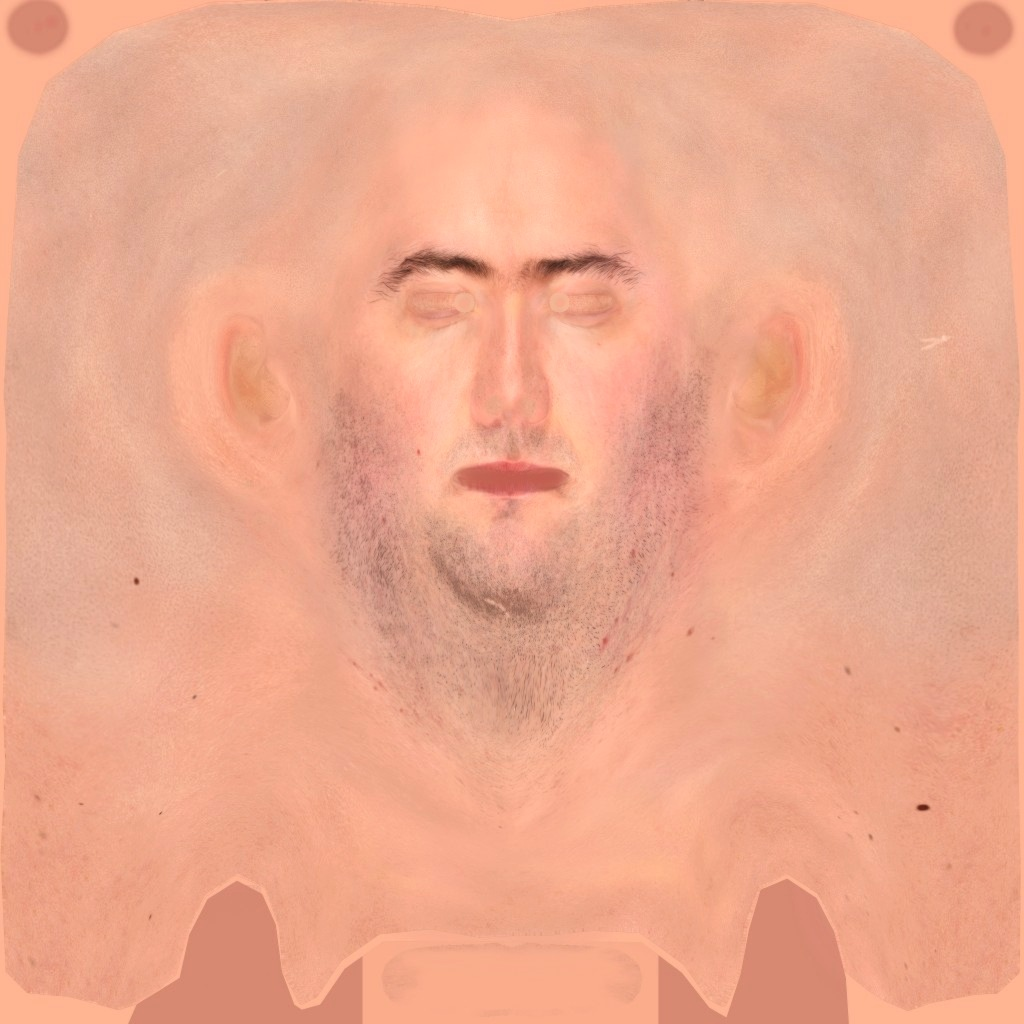
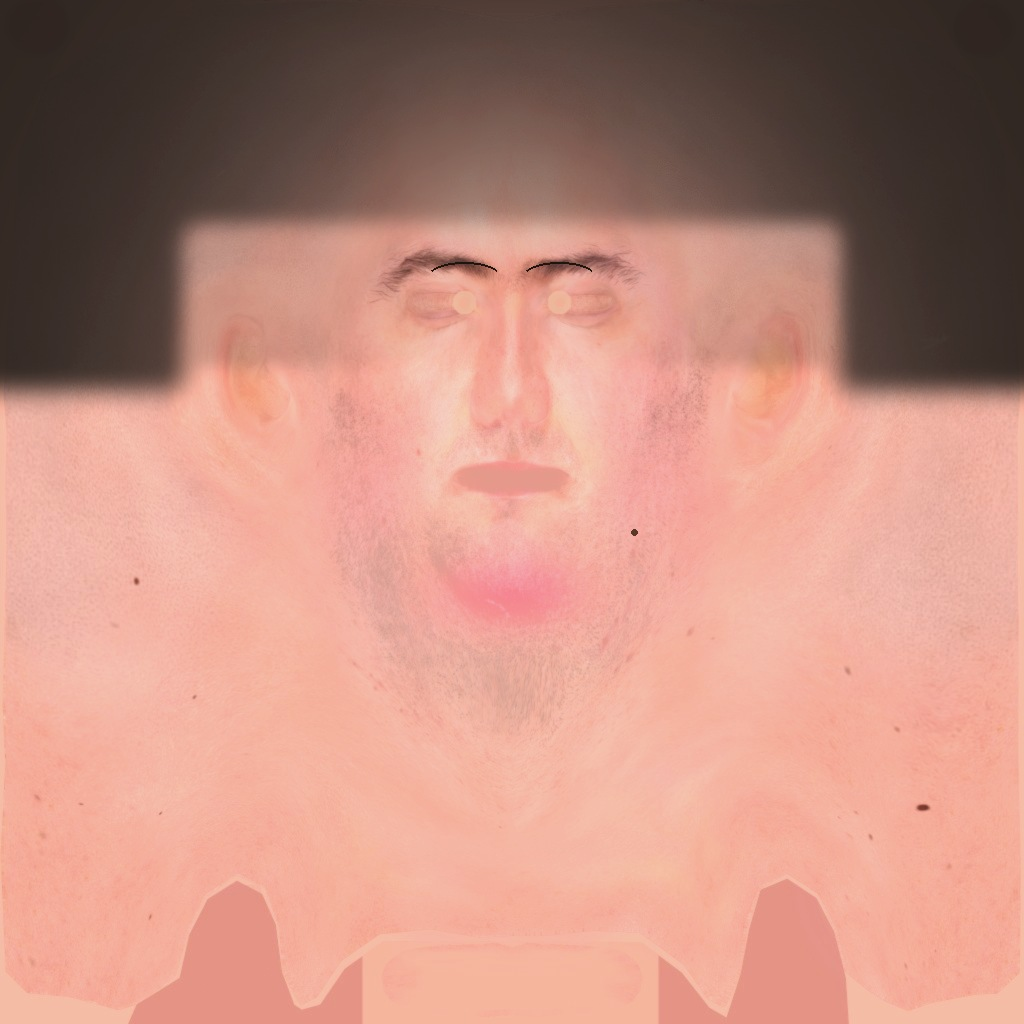
Differentiate 老王, 大妈, and kid faces beyond shared scan topology. (#4)
Morph each Lee Perry Smith head per role, bake distinct scalp/skin maps
(towel, black hair, yellow hat), and add silhouette props so the cast
no longer reads as three identical bald clones.

diff --git a/3d_three_js_3d.html b/3d_three_js_3d.html
@@ -2061,6 +2061,66 @@
       return pack;
     }
 
+    function morphScanHeadGeometry(geometry, morph) {
+      // 同一扫描头按角色捏形，避免三人同脸
+      if (!geometry || !morph) return;
+      const pos = geometry.attributes.position;
+      if (!pos) return;
+      const box = new THREE.Box3().setFromBufferAttribute(pos);
+      const center = box.getCenter(new THREE.Vector3());
+      const size = box.getSize(new THREE.Vector3());
+      const invY = 1 / Math.max(size.y, 0.001);
+      const invX = 1 / Math.max(size.x, 0.001);
+      const invZ = 1 / Math.max(size.z, 0.001);
+      for (let i = 0; i < pos.count; i++) {
+        let x = pos.getX(i) - center.x;
+        let y = pos.getY(i) - center.y;
+        let z = pos.getZ(i) - center.z;
+        const ny = y * invY;
+        const nx = x * invX;
+        const nz = z * invZ;
+        if (morph === 'farmer') {
+          // 方脸、下颌沉、眉弓鼓
+          if (ny < -0.05) {
+            x *= 1.06;
+            y -= size.y * 0.04 * (-ny);
+          }
+          if (ny > 0.15 && nz > 0.05) z += size.z * 0.04;
+          if (Math.abs(nx) > 0.35 && ny < 0.2) x *= 1.08;
+        } else if (morph === 'auntie') {
+          // 圆脸短下巴、颊鼓、颧收一点
+          x *= 1.12;
+          y *= 0.86;
+          if (ny < -0.1) {
+            y += size.y * 0.08 * (-ny);
+            z *= 0.92;
+          }
+          if (ny > -0.05 && ny < 0.35 && Math.abs(nx) > 0.15) {
+            x *= 1.1;
+            z += size.z * 0.05 * (1 - Math.abs(nx));
+          }
+          if (nz > 0.35 && Math.abs(nx) < 0.2 && ny > -0.05 && ny < 0.25) {
+            z *= 0.9; // 鼻梁略收
+          }
+        } else if (morph === 'kid') {
+          // 大圆头、短脸、鼓颊、小下巴
+          x *= 1.18;
+          y *= 0.9;
+          z *= 1.12;
+          if (ny < 0.15) {
+            const puff = 1 - Math.min(1, Math.hypot(nx, nz));
+            x *= 1 + 0.12 * puff;
+            z += size.z * 0.07 * puff;
+          }
+          if (ny < -0.15) y += size.y * 0.1 * (-ny);
+          if (nz > 0.3 && Math.abs(nx) < 0.25) z *= 0.88;
+        }
+        pos.setXYZ(i, x + center.x, y + center.y, z + center.z);
+      }
+      pos.needsUpdate = true;
+      geometry.computeVertexNormals();
+    }
+
     function attachPhotorealScanHead(model, opts) {
       // Lee Perry Smith 扫描头：近景写实脸（仅取网格，丢掉场景里的 Camera/Lamp）
       const options = opts || {};
@@ -2069,25 +2129,34 @@
       const localPos = options.position || { x: 0, y: 0.22, z: 0.06 };
       const yaw = options.yaw != null ? options.yaw : 0;
       const skinTint = options.tint != null ? options.tint : 0xffffff;
+      const morph = options.morph || null;
+      const scaleXYZ = options.scaleXYZ || { x: 1, y: 1, z: 1 };
+      const roughness = options.roughness != null ? options.roughness : 0.82;
+      const normalStrength = options.normalStrength != null ? options.normalStrength : 0.65;
       crushMakeHumanHeadGeometry(model);
       loadLpsGltf((gltf) => {
         const srcMesh = gltf.scene.getObjectByName('LeePerrySmith') || gltf.scene.children.find((c) => c.isMesh);
         let headMesh = null;
         if (srcMesh && srcMesh.isMesh) {
           headMesh = srcMesh.clone(true);
+          headMesh.geometry = srcMesh.geometry.clone();
         } else {
           gltf.scene.traverse((obj) => {
-            if (!headMesh && obj.isMesh) headMesh = obj.clone(true);
+            if (!headMesh && obj.isMesh) {
+              headMesh = obj.clone(true);
+              headMesh.geometry = obj.geometry.clone();
+            }
           });
         }
         if (!headMesh) return;
+        morphScanHeadGeometry(headMesh.geometry, morph);
         const tex = getLpsFaceTextures(faceUrl);
         // Map-SPEC 是高光图，不能直接当 roughnessMap（会油光），只用颜色+法线
         headMesh.material = new THREE.MeshStandardMaterial({
           map: tex.map,
           normalMap: tex.normal,
-          normalScale: new THREE.Vector2(0.65, 0.65),
-          roughness: 0.82,
+          normalScale: new THREE.Vector2(normalStrength, normalStrength),
+          roughness,
           metalness: 0.015,
           color: skinTint
         });
@@ -2103,9 +2172,10 @@
         // 几何中心归零；挂在 neck 上，抬到原头位置
         headMesh.position.set(-center.x, -center.y - size.y * 0.05, -center.z);
         wrap.add(headMesh);
-        wrap.scale.setScalar(s);
+        wrap.scale.set(s * scaleXYZ.x, s * scaleXYZ.y, s * scaleXYZ.z);
         wrap.position.set(localPos.x, localPos.y, localPos.z);
         wrap.rotation.y = yaw;
+        if (typeof options.onHead === 'function') options.onHead(wrap, headMesh, s);
         attachPropToNeck(model, wrap);
       });
     }
@@ -2136,24 +2206,27 @@
         });
       });
       attachPhotorealScanHead(model, {
-        faceUrl: 'assets/people/lps/farmer_face.jpg?v=8',
+        faceUrl: 'assets/people/lps/farmer_face.jpg?v=10',
         headHeight: 0.34,
         position: { x: 0, y: 0.175, z: 0.05 },
         yaw: 0,
-        tint: 0xffffff
+        tint: 0xf0c890,
+        morph: 'farmer',
+        scaleXYZ: { x: 1.06, y: 1.03, z: 1.05 },
+        roughness: 0.9,
+        normalStrength: 0.9,
+        onHead: (wrap, headMesh) => {
+          const towelMat = new THREE.MeshStandardMaterial({ color: 0xe8eef7, roughness: 0.9, side: THREE.DoubleSide });
+          const cap = new THREE.Mesh(new THREE.SphereGeometry(4.2, 18, 12, 0, Math.PI * 2, 0, Math.PI * 0.45), towelMat);
+          cap.position.set(0, 2.8, -1.6);
+          headMesh.add(cap);
+          const flap = new THREE.Mesh(new THREE.BoxGeometry(1.5, 3.4, 0.5), towelMat);
+          flap.position.set(3.2, 1.4, -1.8);
+          headMesh.add(flap);
+        }
       });
-      const towel = new THREE.Group();
-      towel.position.set(0, 0.33, -0.04);
-      const towelMat = new THREE.MeshStandardMaterial({ color: 0xdbeafe, roughness: 0.85 });
-      const band = new THREE.Mesh(new THREE.TorusGeometry(0.12, 0.035, 10, 22), towelMat);
-      band.rotation.x = Math.PI * 0.5;
-      towel.add(band);
-      const flap = new THREE.Mesh(new THREE.BoxGeometry(0.08, 0.22, 0.03), towelMat);
-      flap.position.set(0.12, -0.05, 0.02);
-      towel.add(flap);
-      attachPropToNeck(model, towel);
       const scarf = new THREE.Mesh(
-        new THREE.TorusGeometry(0.16, 0.04, 10, 20),
+        new THREE.TorusGeometry(0.18, 0.05, 10, 20),
         new THREE.MeshStandardMaterial({ color: 0xb45309, roughness: 0.8 })
       );
       scarf.position.set(0, 1.42, 0.02);
@@ -2183,23 +2256,31 @@
         });
       });
       attachPhotorealScanHead(model, {
-        faceUrl: 'assets/people/lps/auntie_face.jpg?v=8',
-        headHeight: 0.33,
-        position: { x: 0, y: 0.165, z: 0.05 },
+        faceUrl: 'assets/people/lps/auntie_face.jpg?v=10',
+        headHeight: 0.31,
+        position: { x: 0, y: 0.16, z: 0.05 },
         yaw: 0,
-        tint: 0xfff1e6
+        tint: 0xffe4d4,
+        morph: 'auntie',
+        scaleXYZ: { x: 1.16, y: 0.86, z: 1.1 },
+        roughness: 0.7,
+        normalStrength: 0.35,
+        onHead: (wrap, headMesh) => {
+          const hairMat = new THREE.MeshStandardMaterial({ color: 0x14100c, roughness: 0.72, side: THREE.DoubleSide });
+          const scalp = new THREE.Mesh(new THREE.SphereGeometry(4.6, 20, 14, 0, Math.PI * 2, 0, Math.PI * 0.5), hairMat);
+          scalp.position.set(0, 2.6, -1.8);
+          headMesh.add(scalp);
+          const bun = new THREE.Mesh(new THREE.SphereGeometry(2.1, 14, 12), hairMat);
+          bun.position.set(0, 2.0, -4.2);
+          headMesh.add(bun);
+          const sideL = new THREE.Mesh(new THREE.SphereGeometry(2.2, 12, 10), hairMat);
+          sideL.scale.set(0.7, 1.45, 1.0);
+          sideL.position.set(-3.6, 0.4, -1.4);
+          const sideR = sideL.clone();
+          sideR.position.x = 3.6;
+          headMesh.add(sideL, sideR);
+        }
       });
-      const hair = new THREE.Group();
-      hair.position.set(0, 0.31, -0.05);
-      const bunMat = new THREE.MeshStandardMaterial({ color: 0x1c1917, roughness: 0.75 });
-      const bun = new THREE.Mesh(new THREE.SphereGeometry(0.065, 14, 12), bunMat);
-      bun.position.set(0, 0.05, -0.08);
-      hair.add(bun);
-      const fringe = new THREE.Mesh(new THREE.SphereGeometry(0.09, 14, 10), bunMat);
-      fringe.scale.set(1.15, 0.3, 0.6);
-      fringe.position.set(0, 0.04, 0.03);
-      hair.add(fringe);
-      attachPropToNeck(model, hair);
     }
 
     function dressMarketKid(model) {
@@ -2223,25 +2304,33 @@
         });
       });
       attachPhotorealScanHead(model, {
-        faceUrl: 'assets/people/lps/kid_face.jpg?v=8',
-        headHeight: 0.46,
-        position: { x: 0, y: 0.155, z: 0.045 },
+        faceUrl: 'assets/people/lps/kid_face.jpg?v=10',
+        headHeight: 0.4,
+        position: { x: 0, y: 0.15, z: 0.045 },
         yaw: 0,
-        tint: 0xffe8d8
+        tint: 0xffd4b8,
+        morph: 'kid',
+        scaleXYZ: { x: 1.22, y: 1.1, z: 1.2 },
+        roughness: 0.68,
+        normalStrength: 0.22,
+        onHead: (wrap, headMesh) => {
+          const hatMat = new THREE.MeshStandardMaterial({ color: 0xf59e0b, roughness: 0.7, side: THREE.DoubleSide });
+          const crown = new THREE.Mesh(new THREE.SphereGeometry(4.8, 20, 14, 0, Math.PI * 2, 0, Math.PI * 0.48), hatMat);
+          crown.position.set(0, 2.9, -1.5);
+          headMesh.add(crown);
+          const earL = new THREE.Mesh(new THREE.SphereGeometry(1.9, 12, 10), hatMat);
+          earL.position.set(-4.2, 0.2, -1.5);
+          const earR = earL.clone();
+          earR.position.x = 4.2;
+          headMesh.add(earL, earR);
+          const pom = new THREE.Mesh(
+            new THREE.SphereGeometry(1.15, 10, 8),
+            new THREE.MeshStandardMaterial({ color: 0xfde68a, roughness: 0.9 })
+          );
+          pom.position.set(0, 5.0, -1.4);
+          headMesh.add(pom);
+        }
       });
-      const hat = new THREE.Group();
-      hat.position.set(0, 0.33, -0.02);
-      const hatMat = new THREE.MeshStandardMaterial({ color: 0xf59e0b, roughness: 0.7 });
-      const earL = new THREE.Mesh(new THREE.SphereGeometry(0.05, 12, 10), hatMat);
-      earL.position.set(-0.12, -0.01, 0);
-      const earR = earL.clone();
-      earR.position.x = 0.12;
-      hat.add(earL, earR);
-      const crown = new THREE.Mesh(new THREE.SphereGeometry(0.09, 16, 12), hatMat);
-      crown.scale.set(1.05, 0.55, 1.05);
-      crown.position.set(0, 0.03, 0);
-      hat.add(crown);
-      attachPropToNeck(model, hat);
     }
 
     function mountRealHuman(gltf, anchor, yaw, scale, dressFn, nonUniformScale) {
@@ -2340,9 +2429,9 @@
 
           try {
             realHumans = {
-              owner: mountRealHuman(loaded[0], npcGroup, 0, 1, dressHenanFarmer, { x: 1.06, y: 0.98, z: 1.08 }),
-              auntie: mountRealHuman(loaded[1], crowdAuntieGroup, 0.42, 1, dressMarketAuntie, { x: 1.12, y: 0.92, z: 1.16 }),
-              kid: mountRealHuman(loaded[2], crowdKidGroup, -0.55, 0.58, dressMarketKid)
+              owner: mountRealHuman(loaded[0], npcGroup, 0, 1, dressHenanFarmer, { x: 1.08, y: 1.0, z: 1.1 }),
+              auntie: mountRealHuman(loaded[1], crowdAuntieGroup, 0.42, 1, dressMarketAuntie, { x: 1.22, y: 0.88, z: 1.2 }),
+              kid: mountRealHuman(loaded[2], crowdKidGroup, -0.55, 0.52, dressMarketKid)
             };
             // 第一人称只露手，不放玩家全身
             build3DFpsPlayerHands();
